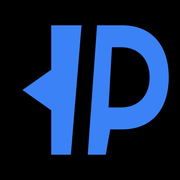
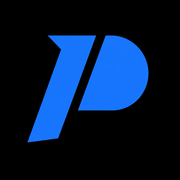
fix(brand): correct PackFlow mark to diagonal-cut P (#30)
Replace the previous arrow+P mark with the attachment version:
slanted stem with top-left tip, bowl on the right, diagonal gap.
Update favicon, app icons, and BrandMark SVG paths (#2E7FFF).

diff --git a/components/brand/BrandMark.tsx b/components/brand/BrandMark.tsx
@@ -22,8 +22,8 @@ type BrandMarkProps = {
 };
 
 /**
- * PackFlow 蓝标：左箭头形 + 右 P，两块之间留缝。
- * 对照品牌附件；顶栏等浅底用透明底 SVG。
+ * PackFlow 蓝标（品牌附件）：斜切两瓣 P——
+ * 左为带左上尖角的斜杆，右为碗形弧；中间对角缝。
  */
 function BrandIcon({ className = "" }: { className?: string }) {
   return (
@@ -32,12 +32,9 @@ function BrandIcon({ className = "" }: { className?: string }) {
       className={`shrink-0 ${className}`}
       aria-hidden
     >
-      <g fill="var(--brand, #3B82F6)">
-        <path d="M29 9 L25.2 55 H18.2 V39.2 L8 32 L18.2 24.8 V9 Z" />
-        <path
-          fillRule="evenodd"
-          d="M34.5 9 H43.5 C54 9 60 16.2 60 27.5 C60 38.8 54 46 43.5 46 H39.2 L37.6 55 H31.2 L34.5 9 Z M39.8 16.8 L38.6 38.2 H43 C49.6 38.2 53.2 33.6 53.2 27.5 C53.2 21.4 49.6 16.8 43 16.8 H39.8 Z"
-        />
+      <g fill="#2E7FFF">
+        <path d="M4.33 59.68 L4.62 57.54 L5.44 54.99 L6.25 52.44 L7.07 49.89 L7.89 47.34 L8.75 44.84 L9.56 42.29 L10.38 39.74 L11.24 37.23 L12.06 34.69 L12.87 32.14 L13.69 29.59 L14.51 27.04 L15.33 24.49 L16.14 21.94 L16.96 19.39 L17.78 16.84 L18.64 14.34 L19.45 11.79 L18.10 9.92 L16.59 8.15 L15.04 6.42 L13.53 4.64 L15.86 4.32 L18.96 4.32 L22.07 4.32 L25.17 4.32 L28.28 4.32 L31.39 4.32 L34.49 4.32 L35.35 5.74 L34.53 8.28 L33.72 10.83 L32.86 13.34 L32.00 15.84 L31.18 18.39 L30.37 20.94 L29.55 23.49 L28.69 25.99 L27.83 28.50 L27.01 31.04 L26.20 33.59 L25.34 36.10 L24.48 38.60 L23.66 41.15 L22.85 43.70 L21.95 46.16 L21.13 48.71 L20.31 51.25 L19.45 53.76 L18.60 56.26 L16.84 57.76 L14.55 58.13 L11.81 58.54 L9.07 58.95 L6.29 59.31 L4.33 59.68 Z" />
+        <path d="M44.71 43.11 L42.34 43.11 L39.97 43.11 L37.60 43.11 L35.23 43.11 L32.86 43.11 L30.49 43.11 L28.12 43.11 L27.79 41.83 L28.40 39.87 L29.06 37.96 L29.71 36.05 L30.32 34.09 L30.98 32.18 L31.59 30.22 L32.25 28.31 L32.90 26.40 L33.55 24.49 L34.17 22.53 L34.82 20.62 L35.43 18.66 L36.09 16.75 L36.74 14.84 L37.39 12.93 L38.05 11.02 L38.66 9.06 L39.32 7.15 L39.93 5.19 L41.52 4.32 L43.89 4.32 L45.85 4.60 L47.73 5.14 L49.49 5.83 L51.09 6.69 L52.56 7.69 L53.86 8.88 L55.09 10.15 L56.23 11.52 L57.22 13.06 L58.11 14.70 L58.85 16.52 L59.46 18.48 L59.91 20.62 L60.12 23.03 L60.12 25.67 L59.79 27.95 L59.30 30.04 L58.65 31.95 L57.83 33.68 L56.89 35.28 L55.83 36.73 L54.68 38.10 L53.37 39.28 L51.98 40.38 L50.43 41.29 L48.80 42.11 L46.92 42.65 L44.87 43.02 L44.71 43.11 Z" />
       </g>
     </svg>
   );
